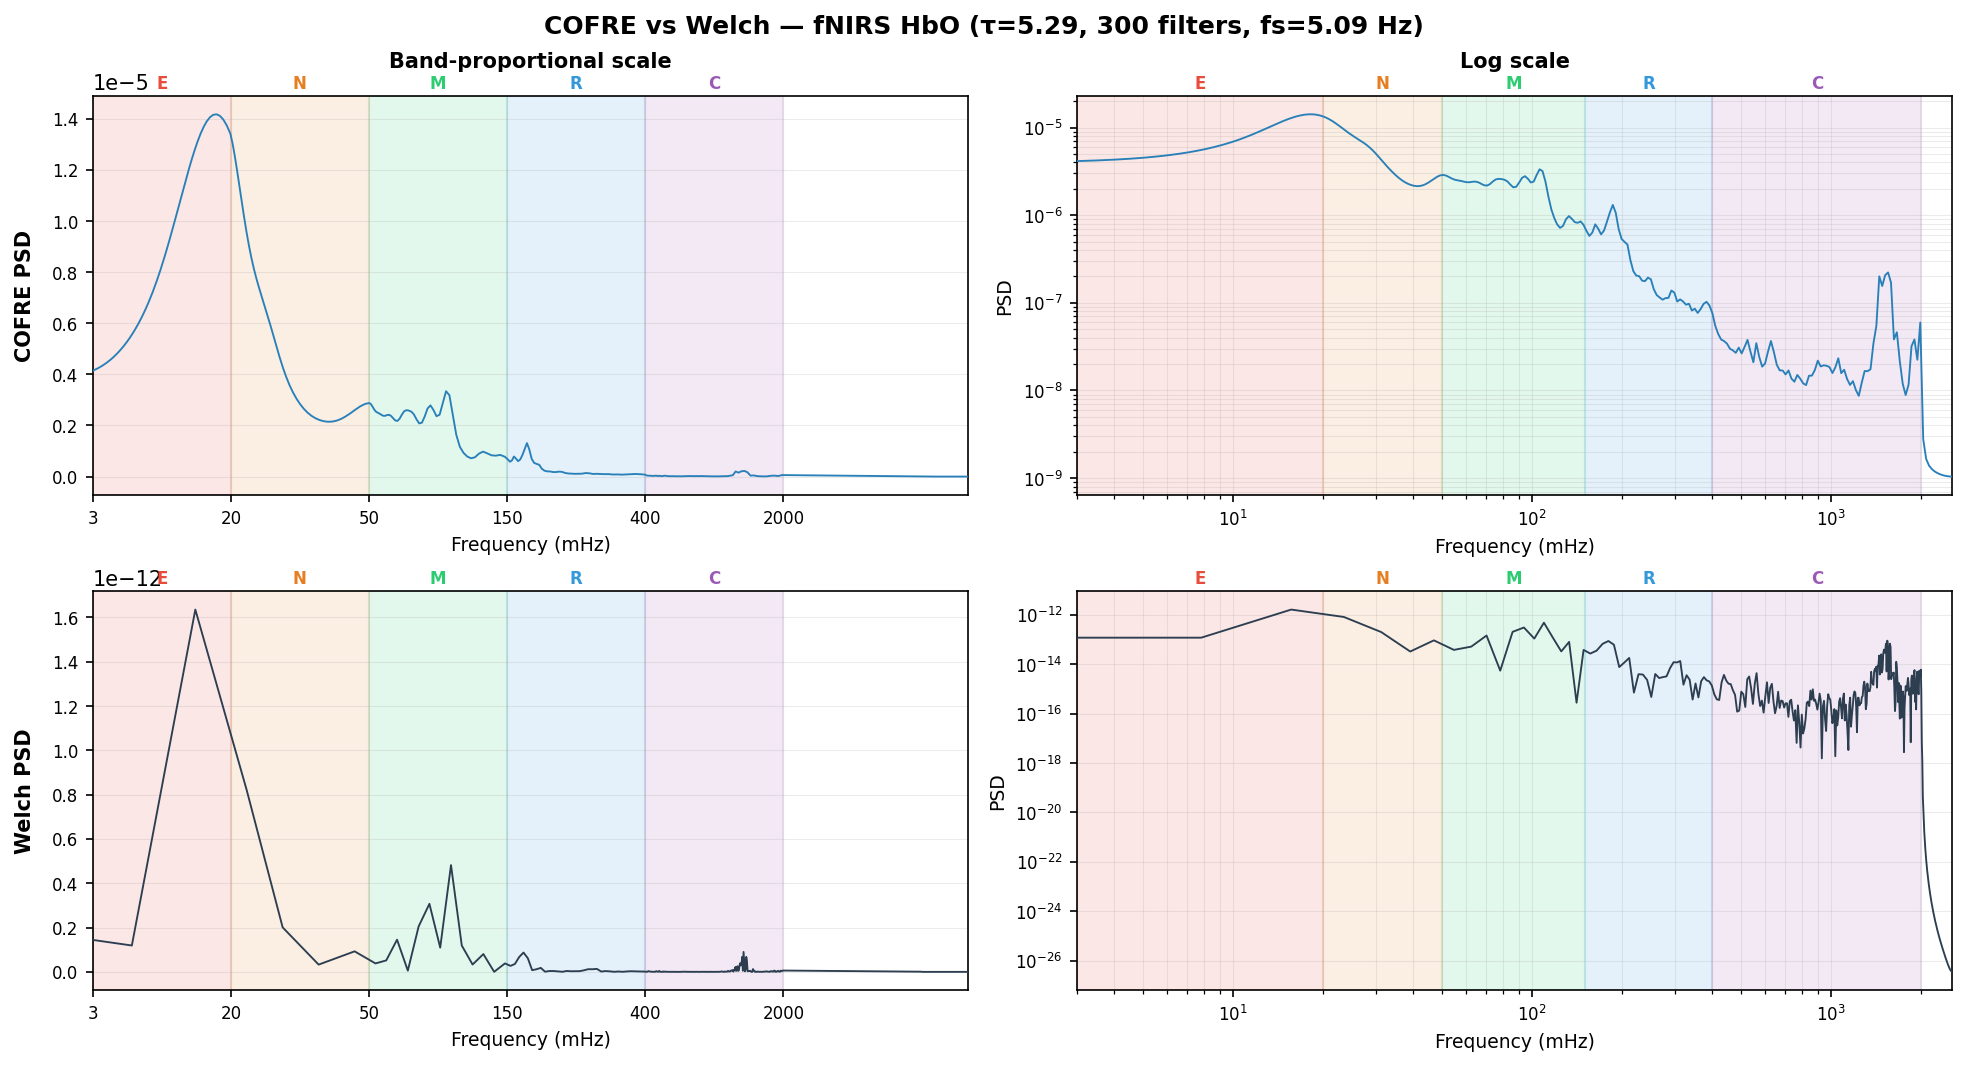
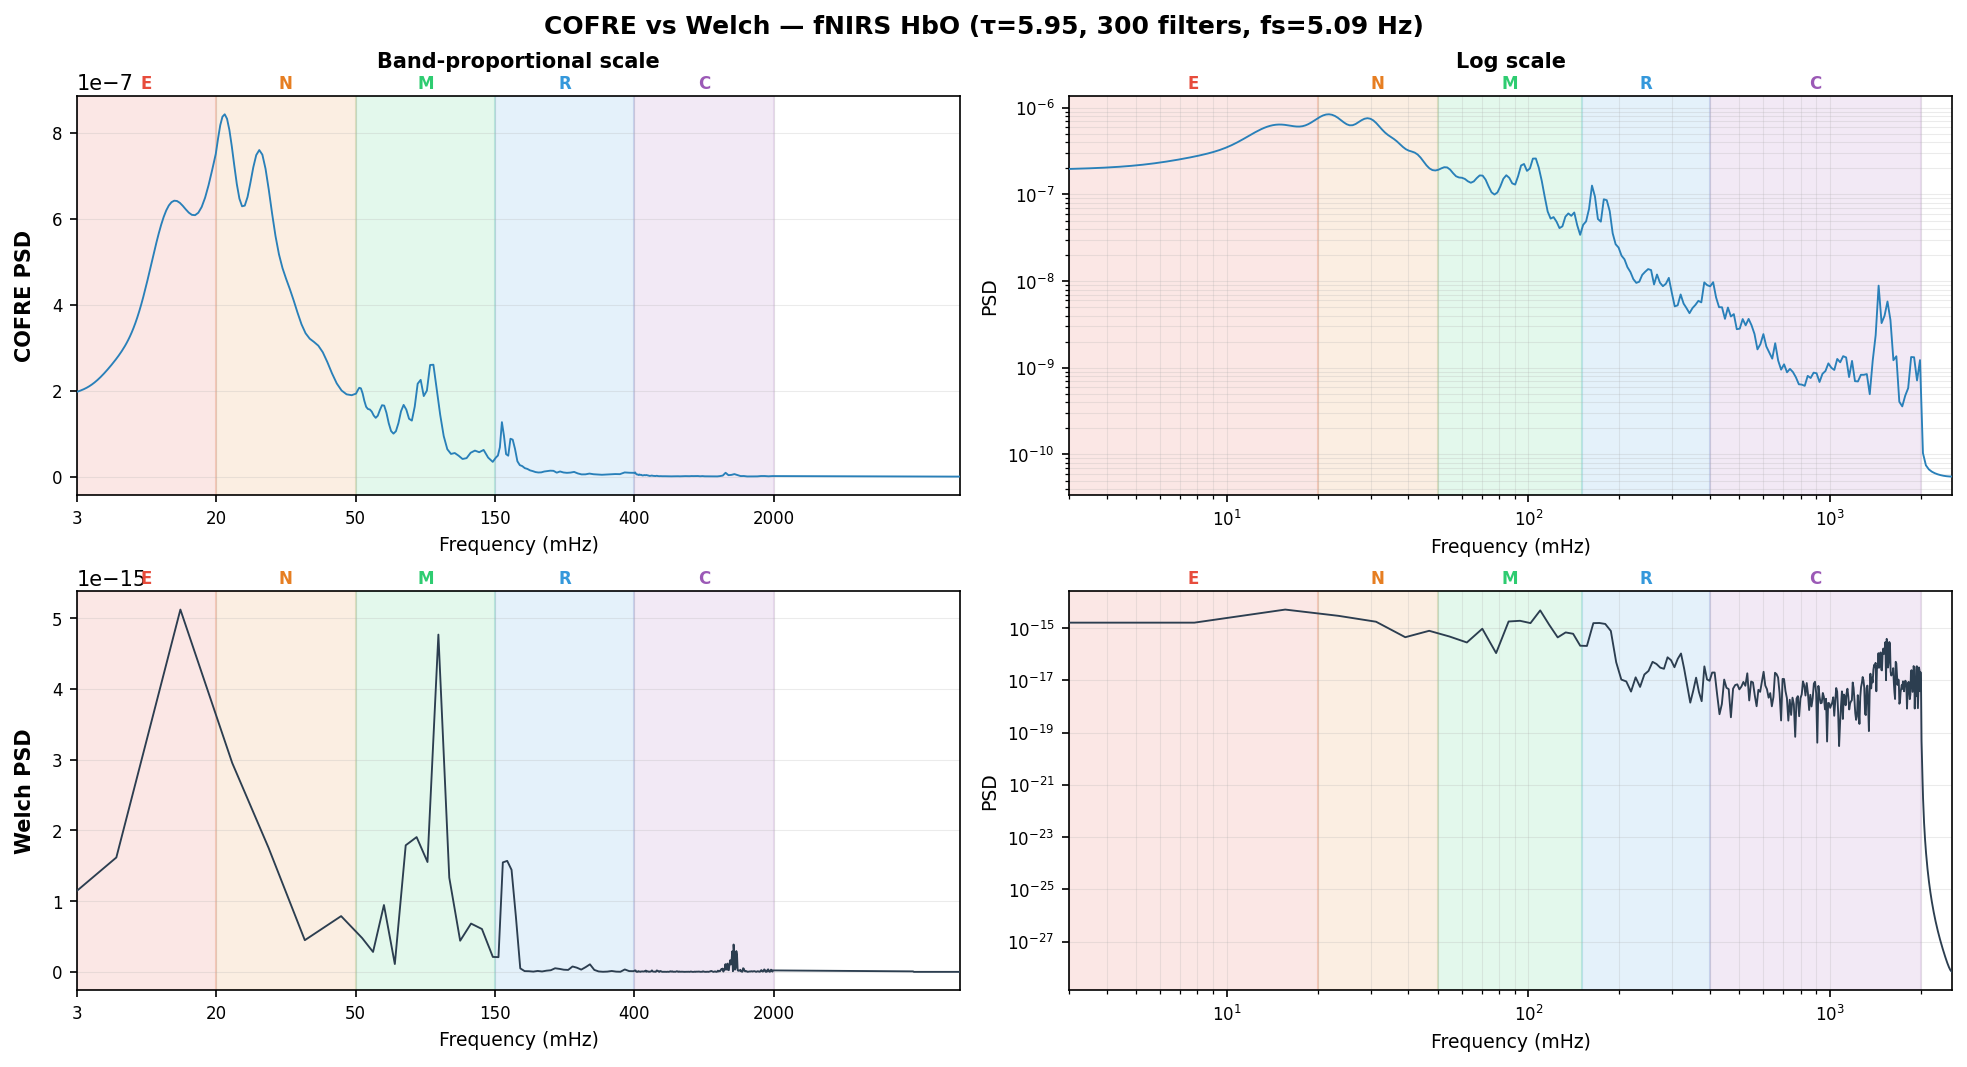
Update fnirs example and bump version to 1.0.0

diff --git a/fnirs_example.py b/fnirs_example.py
@@ -31,7 +31,7 @@ fnirs_obj.preprocess(pp) # Pass the preprocesser only
 
 hbo_data, ch_names, hbr_data, _ = fnirs_obj.split()
 
-channels = [0, 1, 2, 3]  # Use all 4 channels
+channels = [34, 1, 2, 3]  # Use all 4 channels
 fs = fnirs_obj.sampling_frequency
 
 # hbo_data layout is (channels × samples)
@@ -62,7 +62,7 @@ print(f"FFT resolution     : {1.0 / duration * 1e3:.4f} mHz")
 
 # Pick tau so rise time (beta=0.5) ~ 35% of recording
 target_rise_samples = 0.15 * n_samples
-tau = optimal_tau_for_rise_time(target_rise_samples, beta=0.5)
+tau = optimal_tau_for_rise_time(target_rise_samples, beta=0.3)
 
 # Don't let tau go below 3.0 (too coarse) or above 8.65 (paper's value)
 tau = float(np.clip(tau, 3.0, 8.65))
